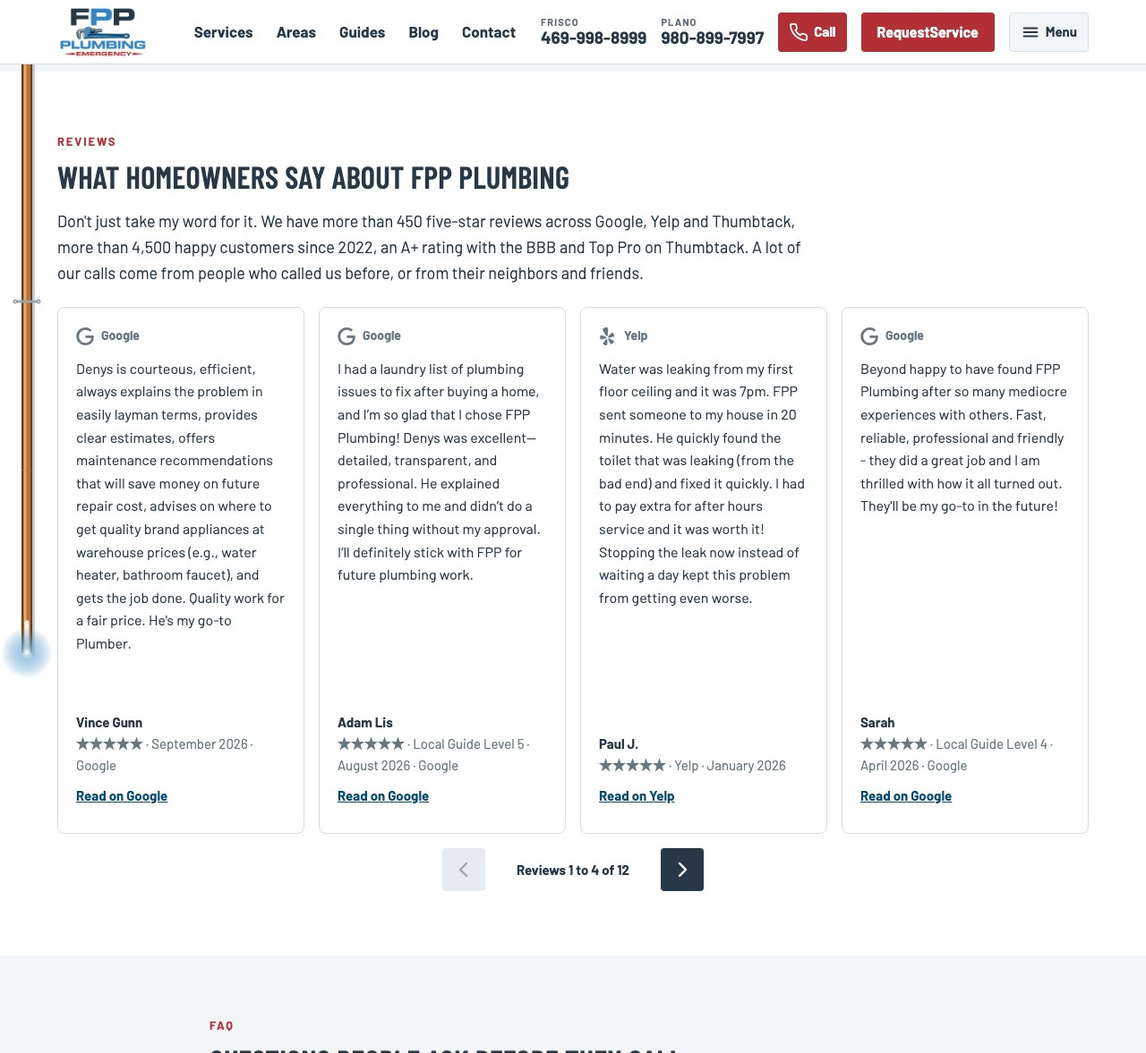
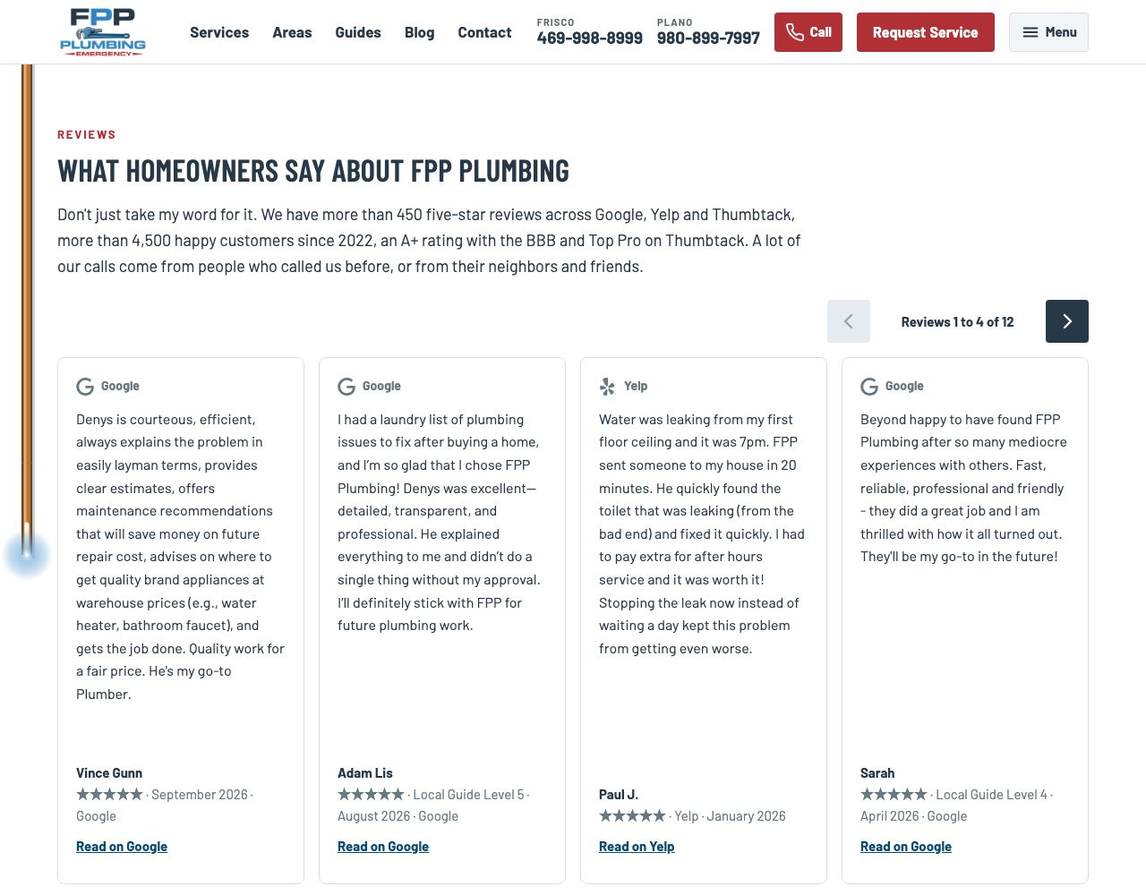
Journal 03.10.2026 10:41

diff --git a/check.html b/check.html
@@ -10,7 +10,7 @@ a{color:var(--accent)}code{font-size:15px;background:rgba(127,127,127,.15);paddi
 li{margin:4px 0}.stamp{color:var(--muted);font-size:14px;margin:0 0 16px}
 table{display:block;overflow-x:auto;border-collapse:collapse;font-size:14px;line-height:1.35;margin:12px 0}
 th,td{padding:5px 9px;border-bottom:1px solid var(--line);text-align:left;vertical-align:top}th{position:sticky;top:0;background:var(--bg)}
-</style></head><body><main><p class="stamp">Опубликовано 03.10.2026 10:08</p><h1>Отчёт по частям 1, 2 и 3 единого блока (3 октября 2026, 5:10)</h1>
+</style></head><body><main><p class="stamp">Опубликовано 03.10.2026 10:41</p><h1>Отчёт по частям 1, 2 и 3 единого блока (3 октября 2026, 5:10)</h1>
 <p>Сборка стоит на тестовом сайте. Проверки на этой сборке: проверки сайта 28 из 28, вёрстка чиста на шести ширинах, валидатор схемы 0 ошибок и 0 предупреждений на главной и Frisco.</p>
 <h2>Итог</h2>
 <table>
@@ -429,7 +429,16 @@ th,td{padding:5px 9px;border-bottom:1px solid var(--line);text-align:left;vertic
 <p>Как работает: на компьютере видно четыре карточки, на планшете две, на телефоне одну. Листается стрелками, пальцем и стрелками клавиатуры. Сама не крутится, библиотек нет, скрипт 1,3 КБ. Все 12 отзывов стоят в HTML. Высота блока одна и та же на любой странице карусели. Без скриптов ряд листается пальцем. В разметке 12 узлов Review без общего рейтинга, валидатор 0 ошибок.</p>
 <p>Снимки: <a href="img/carousel-390.jpg">телефон 390</a>, <a href="img/carousel-768.jpg">планшет 768</a>, <a href="img/carousel-1280.jpg">компьютер 1280</a>.</p>
 <p>Измерено при сборке: видимых карточек 1, 2 и 4; кнопка «Next» сдвигает ровно на один экран; на краях кнопки выключаются; Tab, Enter, пробел и стрелки работают; за 15 секунд без действий ничего не двигается; страница вбок не прокручивается.</p>
-<h2>Что проверено независимо и что нет</h2>
-<p>Проверяющих было пять. Двое закончили: Frisco версия 4 и содержание отзывов. Они нашли семь мелочей, все исправлены: пробел в кнопке «Request Service» в шапке на компьютере, дата изменения главной, устаревшие заметки в файлах текста, карта ключей и план, пометка Rani C как того же клиента. Трое (поведение карусели для клавиатуры и программы чтения, техника части 1, регрессии по сайту) остановились из-за лимита. Их стоит прогнать ещё раз.</p>
+<h2>Независимая проверка</h2>
+<p>Проверяющих было пять, прошли все пять (трое со второго и третьего запуска, после возврата лимита): Frisco версия 4, содержание отзывов, техника части 1, регрессии по сайту, поведение карусели для клавиатуры и программы чтения. Серьёзных ошибок в работе по блоку не нашли. Каждую находку перепроверял второй проверяющий.</p>
+<p>Исправлено по находкам:</p>
+<ul>
+<li>Карусель: стрелки и счётчик стоят над карточками и раньше них в разметке, поэтому Tab сразу попадает на кнопку «Next». На краю ряда кнопка отдаёт фокус ряду (раньше лишний Enter листал назад). Стрелки клавиатуры листают ряд и тогда, когда фокус стоит на ссылке внутри карточки. Ссылка меню «Reviews» приводит к блоку под шапкой, а не под неё.</li>
+<li>Шапка: от 1100 до 1199 px номера телефонов не помещались и вылезали из шапки. Теперь номера видны с 1200 px, до этого их несёт кнопка Call.</li>
+<li>Пробел в кнопке «Request Service», дата изменения главной, заметки в файлах текста, карта ключей и план, защита от постановки одного клиента под двумя именами.</li>
+<li>Старые ошибки сайта, не из этого блока: фото с координатами съёмки в одном посте (больше не публикуется), подвал шире экрана на планшете, правила для телефона в виде, которого не понимает Safari до 16.4, кнопки плеера у клипа со счётчиком.</li>
+</ul>
+<p>Измерено проверяющим карусели на семи ширинах от 360 до 1440 px: видимых карточек 1, 2 и 4, переключение ровно на 700 и 1100 px; кнопка сдвигает ровно на один экран; высота блока одна на всех страницах карусели; сама не двигается (20 секунд); без скриптов ряд листается и все 12 читаются; контраст текста и кнопок от 4,58 до 12; ошибок в консоли нет.</p>
+<p>Не исправлено, для сведения: при первом заходе сразу по адресу /#reviews на телефоне страница после подгрузки шрифтов съезжает, и блок оказывается выше экрана. Причина старая: шрифты Google подключаются после загрузки и меняют высоту текста выше. Лечится подбором запасного шрифта той же ширины, это отдельная работа.</p>
 <h2>Коммиты</h2>
-<p>60cd5db Frisco версия 4; 755fca7 техника; 80c6c5d карусель; 4c41f3c исправления после проверки; 3402b85 города фото по контурам; 7f421b9 запись страницы Plano.</p></main></body></html>
+<p>60cd5db Frisco версия 4; 755fca7 техника; 80c6c5d карусель; 4c41f3c исправления после проверки; 3402b85 города фото по контурам; 7f421b9 запись страницы Plano. Дальше: faf128d исправления после второй проверки; be12ea8 четыре ответа Дениса; 9ce261c карусель после проверки клавиатуры.</p></main></body></html>

diff --git a/morning-report-2026-10-03.html b/morning-report-2026-10-03.html
@@ -10,9 +10,9 @@ a{color:var(--accent)}code{font-size:15px;background:rgba(127,127,127,.15);paddi
 li{margin:4px 0}.stamp{color:var(--muted);font-size:14px;margin:0 0 16px}
 table{display:block;overflow-x:auto;border-collapse:collapse;font-size:14px;line-height:1.35;margin:12px 0}
 th,td{padding:5px 9px;border-bottom:1px solid var(--line);text-align:left;vertical-align:top}th{position:sticky;top:0;background:var(--bg)}
-</style></head><body><main><p class="stamp">Опубликовано 03.10.2026 10:27</p><h1>Утренний отчёт, 3 октября 2026</h1>
-<p>Опубликован в 04:53, дополнен в 10:30.</p>
-<p>Главное: в 02:36 кончился лимит использования, все ночные помощники остановились. Лимит вернулся в 04:50. Единый блок сделан весь и выложен на тестовый сайт. Из ночного блока готовы таблица городов, бриф Plano и бриф Little Elm. В 05:38 лимит кончился второй раз, уже на модели помощников. С 10:05, после твоего «Try again», брифы остальных городов идут по два города на другой модели помощников: The Colony и Prosper, Lewisville и Celina, потом Carrollton, Allen и McKinney. Страницы услуг не начаты.</p>
+</style></head><body><main><p class="stamp">Опубликовано 03.10.2026 10:41</p><h1>Утренний отчёт, 3 октября 2026</h1>
+<p>Опубликован в 04:53, дополнен в 10:45.</p>
+<p>Главное: в 02:36 кончился лимит использования, все ночные помощники остановились. Лимит вернулся в 04:50. Единый блок сделан весь и выложен на тестовый сайт. Из ночного блока готовы таблица городов, бриф Plano и бриф Little Elm. В 05:38 лимит кончился второй раз, уже на модели помощников. С 10:05, после твоего «Try again», брифы остальных семи городов идут на другой модели помощников: The Colony, Prosper, Lewisville, Celina, Carrollton, Allen и McKinney. Страницы услуг не начаты.</p>
 <h2>Единый блок (части 0 до 8)</h2>
 <ul>
 <li><strong>Часть 0.</strong> Пустой файл в .git удалён.</li>
@@ -33,7 +33,7 @@ th,td{padding:5px 9px;border-bottom:1px solid var(--line);text-align:left;vertic
 <li><strong>Часть 11, страницы услуг: не начата.</strong></li>
 </ul>
 <h2>Проверка правок</h2>
-<p>Независимая проверка прошла со второго запуска: четыре проверяющих из пяти (Frisco, содержание отзывов, техника, регрессии). Пятый, поведение карусели для клавиатуры и программы чтения, оба раза упал на лимите и ещё не пройден. Серьёзных ошибок в работе этой ночи не нашли. Нашли старые ошибки сайта, которые я исправил утром:</p>
+<p>Независимая проверка пройдена всеми пятью проверяющими (Frisco, содержание отзывов, техника, регрессии, поведение карусели для клавиатуры и программы чтения). Серьёзных ошибок в работе этой ночи не нашли. По проверке карусели исправлены четыре мелочи: стрелки и счётчик теперь стоят над карточками, подробно в отчёте по частям 1, 2 и 3. Нашли старые ошибки сайта, которые я исправил утром:</p>
 <ol>
 <li><strong>Фото с координатами.</strong> В одном посте (течь душевого клапана во Frisco) стоял старый файл HEIC, в котором лежали координаты съёмки; он к тому же не открывался в Chrome. Файл больше не публикуется: вместо него чистый JPEG и WebP без метаданных, старый адрес переадресован. Проверил все 883 картинки нового сайта: координат больше нет ни в одной. На живом сайте этот файл с координатами лежит до сих пор.</li>
 <li><strong>Подвал на планшете.</strong> На ширине от 821 до 883 px подвал был шире экрана. Теперь на планшете две колонки, страница вбок не ездит.</li>
@@ -113,9 +113,8 @@ th,td{padding:5px 9px;border-bottom:1px solid var(--line);text-align:left;vertic
 <h2>Пропущенные шаги и почему</h2>
 <ul>
 <li>Брифы семи городов: ночью дважды кончался лимит (02:36 и 05:38). Идут с 10:05 по два города.</li>
-<li>Страницы услуг (часть 11): не начаты, пойдут после городов.</li>
 <li>
-<p>Проверка поведения карусели для клавиатуры и программы чтения: дважды упала на лимите. Сборочные проверки карусели пройдены.</p>
+<p>Страницы услуг (часть 11): не начаты, пойдут после городов.</p>
 </li>
 <li>
 <p>Критических ошибок в ночном блоке не нашёл, ни один пункт из-за этого не пропущен.</p>
@@ -139,4 +138,5 @@ th,td{padding:5px 9px;border-bottom:1px solid var(--line);text-align:left;vertic
 <li>e4c9689 бриф Little Elm</li>
 <li>faf128d исправления после второй проверки</li>
 <li>be12ea8 четыре ответа Дениса</li>
+<li>9ce261c карусель после проверки клавиатуры</li>
 </ul></main></body></html>

diff --git a/seo-build-technical-2026-10-01.html b/seo-build-technical-2026-10-01.html
@@ -10,7 +10,7 @@ a{color:var(--accent)}code{font-size:15px;background:rgba(127,127,127,.15);paddi
 li{margin:4px 0}.stamp{color:var(--muted);font-size:14px;margin:0 0 16px}
 table{display:block;overflow-x:auto;border-collapse:collapse;font-size:14px;line-height:1.35;margin:12px 0}
 th,td{padding:5px 9px;border-bottom:1px solid var(--line);text-align:left;vertical-align:top}th{position:sticky;top:0;background:var(--bg)}
-</style></head><body><main><p class="stamp">Опубликовано 03.10.2026 10:27</p><h1>Технический аудит и аудит схемы новой сборки, 1 октября 2026, 14:15</h1>
+</style></head><body><main><p class="stamp">Опубликовано 03.10.2026 10:41</p><h1>Технический аудит и аудит схемы новой сборки, 1 октября 2026, 14:15</h1>
 <p>Что проверяли: новую сборку сайта (папка site/dist, сборка от 1 октября 13:11), запущенную у меня на компьютере через эмулятор Cloudflare Pages (wrangler pages dev). Эмулятор ведет себя как настоящий Cloudflare: те же перенаправления, те же заголовки, та же страница 404. Тестовый сайт в интернете закрыт входом по почте (Cloudflare Access), туда я не заходил.</p>
 <p>Проверено: все 64 адреса из списка старого сайта, robots.txt, sitemap.xml, llms.txt, llms-full.txt, все 300 правил перенаправления, страница 404, адреса без косой черты в конце, canonical, заголовки страниц, внутренние ссылки, все 370 картинок, вес страниц, скорость на телефоне по нашему инструменту (tools/perf_budget.py, бюджет 1,6 секунды) и вся схема на каждой странице против словаря schema.org.</p>
 <p>Методика: плагин claude-seo (навыки seo-technical, seo-schema, seo-sitemap, seo-images, seo-geo, seo-page) и его скрипты parse_html, sitemap_discovery, preload_check, metadata_template, agentic_check. Советы плагина здесь только предложения. Где плагин советует то, что запрещает CLAUDE.md или файл голоса Дениса, это вынесено в раздел 4 и в список правок не попало. Модуль programmatic SEO не использовался.</p>

diff --git a/audit-2026-10-02-superseo-round3.html b/audit-2026-10-02-superseo-round3.html
@@ -10,7 +10,7 @@ a{color:var(--accent)}code{font-size:15px;background:rgba(127,127,127,.15);paddi
 li{margin:4px 0}.stamp{color:var(--muted);font-size:14px;margin:0 0 16px}
 table{display:block;overflow-x:auto;border-collapse:collapse;font-size:14px;line-height:1.35;margin:12px 0}
 th,td{padding:5px 9px;border-bottom:1px solid var(--line);text-align:left;vertical-align:top}th{position:sticky;top:0;background:var(--bg)}
-</style></head><body><main><p class="stamp">Опубликовано 03.10.2026 10:27</p><h1>Аудит двух страниц, круг 3 (сборка 2 октября 2026, 23:21)</h1>
+</style></head><body><main><p class="stamp">Опубликовано 03.10.2026 10:41</p><h1>Аудит двух страниц, круг 3 (сборка 2 октября 2026, 23:21)</h1>
 <p>Метод: superseo page-audit, те же семь измерений, что в кругах 1 и 2, по 10 баллов, всего 70. Проверял готовый HTML сборки: копии home.html и plumber-frisco-tx.html совпадают байт в байт с site/dist. Все счёты ниже сделаны скриптами (python, BeautifulSoup), не на глаз.</p>
 <p>Конкуренты по запросу "plumber frisco tx": прочитаны сохранённые копии от 1 октября (source/competitors/2026-10-01): Berkeys, Baker Brothers, Trident, Roto-Rooter, Lex's Plumbing и ещё пять. Свежий веб-поиск сделан, но выдачу Google с привязкой к Фриско так не получить, поэтому места в выдаче беру из Search Console (source/gsc). Сам Lighthouse не запускал (в моей среде нет Node), но прочитал свежие замеры этой же сборки, которые сделал другой помощник в 23:31 (exports/lighthouse/round3-summary.json, лабораторные данные, локальный сервер): главная на телефоне 99 баллов, LCP 1.8 с, CLS 0.032; Frisco на телефоне 99 баллов, LCP 2.1 с, CLS 0.008; на компьютере обе 100; доступность 100 у обеих. Самый большой элемент на Frisco: фото фургона в герое. Ещё посчитан вес страниц и картинок, а первый экран снят на телефоне 375 px через локальный сервер из site/dist. Pangram не запускал.</p>
 <h2>1. Оценки</h2>

diff --git a/seo-baseline-live-2026-10-01.html b/seo-baseline-live-2026-10-01.html
@@ -10,7 +10,7 @@ a{color:var(--accent)}code{font-size:15px;background:rgba(127,127,127,.15);paddi
 li{margin:4px 0}.stamp{color:var(--muted);font-size:14px;margin:0 0 16px}
 table{display:block;overflow-x:auto;border-collapse:collapse;font-size:14px;line-height:1.35;margin:12px 0}
 th,td{padding:5px 9px;border-bottom:1px solid var(--line);text-align:left;vertical-align:top}th{position:sticky;top:0;background:var(--bg)}
-</style></head><body><main><p class="stamp">Опубликовано 03.10.2026 10:27</p><h1>Аудит старого сайта fppplumbing.com: точка отсчёта до переезда (1 октября 2026, 14:10)</h1>
+</style></head><body><main><p class="stamp">Опубликовано 03.10.2026 10:41</p><h1>Аудит старого сайта fppplumbing.com: точка отсчёта до переезда (1 октября 2026, 14:10)</h1>
 <p>Что это: полный SEO аудит сайта, который сейчас работает на WordPress. Это снимок «до». После переезда на новый сайт мы сделаем такой же снимок «после» и сравним по тем же пунктам.</p>
 <p>Как проверяли: по методике плагина Claude SEO 2.4.1 (оригинальный репозиторий AgriciDaniel/claude-seo). Шли по шагам главного навыка seo-audit и по его частям: технический аудит (seo-technical), тексты и доверие (seo-content), разметка (seo-schema), картинки (seo-images), карта сайта (seo-sitemap), готовность к AI поиску (seo-geo), разбор отдельных страниц (seo-page). Модуль programmatic SEO не использовался. Советы плагина здесь только предложения: где плагин советует то, что запрещает CLAUDE.md или файл голоса Дениса, это вынесено в раздел 4 и в список правок не попало.</p>
 <p>Откуда данные:

diff --git a/home-live-vs-v4-2026-10-01.html b/home-live-vs-v4-2026-10-01.html
@@ -10,7 +10,7 @@ a{color:var(--accent)}code{font-size:15px;background:rgba(127,127,127,.15);paddi
 li{margin:4px 0}.stamp{color:var(--muted);font-size:14px;margin:0 0 16px}
 table{display:block;overflow-x:auto;border-collapse:collapse;font-size:14px;line-height:1.35;margin:12px 0}
 th,td{padding:5px 9px;border-bottom:1px solid var(--line);text-align:left;vertical-align:top}th{position:sticky;top:0;background:var(--bg)}
-</style></head><body><main><p class="stamp">Опубликовано 03.10.2026 10:27</p><h1>Живая главная против новой (v4): что выиграли для SEO</h1>
+</style></head><body><main><p class="stamp">Опубликовано 03.10.2026 10:41</p><h1>Живая главная против новой (v4): что выиграли для SEO</h1>
 <p>1 октября 2026. Сравнение сегодняшней главной на fppplumbing.com с новой главной v4 на тестовом сайте. Живую страницу я заново скачал и открыл в браузере в размере телефона. Цифры по запросам из Search Console (сервис Google, который показывает, по каким запросам сайт видят в поиске и на каком месте).</p>
 <h2>Короткий ответ</h2>
 <p>Выиграли, но не там, где хочется. Сам текст не поднимет главную по «plumber near me» с 27 места: это решают карточки в Google Картах, отзывы и ссылки с других сайтов. Новая главная выигрывает в трех вещах: она в разы легче и быстрее, на ней нет ошибок и неправды со старой страницы, и в тексте стоят слова, по которым Google уже показывает главную. По аварийным запросам мы ничего не выиграли, а защитили то, что есть.</p>

diff --git a/plano-brief-2026-10-03.html b/plano-brief-2026-10-03.html
@@ -10,7 +10,7 @@ a{color:var(--accent)}code{font-size:15px;background:rgba(127,127,127,.15);paddi
 li{margin:4px 0}.stamp{color:var(--muted);font-size:14px;margin:0 0 16px}
 table{display:block;overflow-x:auto;border-collapse:collapse;font-size:14px;line-height:1.35;margin:12px 0}
 th,td{padding:5px 9px;border-bottom:1px solid var(--line);text-align:left;vertical-align:top}th{position:sticky;top:0;background:var(--bg)}
-</style></head><body><main><p class="stamp">Опубликовано 03.10.2026 10:27</p><h1>Бриф страницы Plano (3 октября 2026)</h1>
+</style></head><body><main><p class="stamp">Опубликовано 03.10.2026 10:41</p><h1>Бриф страницы Plano (3 октября 2026)</h1>
 <p>Страница: /plumber-plano-tx/ . Собрано ночью 3 октября 2026 из файлов разделов в папке <code>docs/briefs/plano/</code>. Страница этой ночью не переписывалась: текст напишет другой чат из этого брифа и из диктовки Дениса. В проекте ничего не менялось, кроме этого нового файла.</p>
 <p>Как устроен файл. Части 1, 2, 3, 5, 6 и 8 это файлы разделов, вставленные целиком скриптом, слово в слово (заголовки внутри опущены на уровень ниже, в части 6 на два уровня, потому что там четыре файла). Части «Коротко», 4, 7, 9 и 10 написаны при сборке. Файл большой, потому что часть 2 одна занимает около 130 КБ: читать стоит «Коротко», потом части 9 и 10, остальное открывать по делу.</p>
 <p>Три оговорки к вставленным файлам:</p>

diff --git a/seo-audit-2026-10-01.html b/seo-audit-2026-10-01.html
@@ -10,7 +10,7 @@ a{color:var(--accent)}code{font-size:15px;background:rgba(127,127,127,.15);paddi
 li{margin:4px 0}.stamp{color:var(--muted);font-size:14px;margin:0 0 16px}
 table{display:block;overflow-x:auto;border-collapse:collapse;font-size:14px;line-height:1.35;margin:12px 0}
 th,td{padding:5px 9px;border-bottom:1px solid var(--line);text-align:left;vertical-align:top}th{position:sticky;top:0;background:var(--bg)}
-</style></head><body><main><p class="stamp">Опубликовано 03.10.2026 10:27</p><h1>SEO аудит: главная и страница slab leak, 1 октября 2026</h1>
+</style></head><body><main><p class="stamp">Опубликовано 03.10.2026 10:41</p><h1>SEO аудит: главная и страница slab leak, 1 октября 2026</h1>
 <p>Что проверяли: собранную копию нового сайта (папка site/dist), главную <code>/</code> и страницу <code>/slab-leak-repair-frisco-plano-mckinney/</code>. Смотрели текст, заголовки, схему (schema: скрытая разметка для Google и AI, которая говорит «это компания, это услуга, это вопросы и ответы»), ссылки, фото, скорость. Сравнивали с конкурентами из первой выдачи Google и с данными Search Console за 3 месяца (июль, август, сентябрь 2026).</p>
 <p>Методика: два навыка superseo (eeat-audit и page-audit). Их советы здесь только предложения. Где навык советует то, что запрещает CLAUDE.md или файл голоса Дениса, это вынесено в раздел 5 и не считается находкой.</p>
 <p>Короткий словарь (дальше без пояснений):

diff --git a/audit-2026-10-02-claudeseo-round3.html b/audit-2026-10-02-claudeseo-round3.html
@@ -10,7 +10,7 @@ a{color:var(--accent)}code{font-size:15px;background:rgba(127,127,127,.15);paddi
 li{margin:4px 0}.stamp{color:var(--muted);font-size:14px;margin:0 0 16px}
 table{display:block;overflow-x:auto;border-collapse:collapse;font-size:14px;line-height:1.35;margin:12px 0}
 th,td{padding:5px 9px;border-bottom:1px solid var(--line);text-align:left;vertical-align:top}th{position:sticky;top:0;background:var(--bg)}
-</style></head><body><main><p class="stamp">Опубликовано 03.10.2026 10:27</p><h1>Проверка claude-seo seo-page, третий круг: главная и Frisco</h1>
+</style></head><body><main><p class="stamp">Опубликовано 03.10.2026 10:41</p><h1>Проверка claude-seo seo-page, третий круг: главная и Frisco</h1>
 <p>Сборка 2 октября 2026, 23:21. Проверены site/dist/index.html (главная) и site/dist/plumber-frisco-tx/index.html (Frisco); копии в папке аудита совпадают с ними байт в байт. Метод: навык claude-seo:seo-page, пять областей по 100 баллов. Весов навык не задаёт, поэтому итог это простое среднее пяти областей, как в первом и втором круге. Всё посчитано своими скриптами по HTML и файлам сборки, без браузера и без Lighthouse. noindex, Cloudflare Access и отсутствие тегов Google ошибками не считаются: это шаги дня переезда.</p>
 <h2>1. Баллы</h2>
 <table>

diff --git a/deploy-preview.html b/deploy-preview.html
@@ -10,7 +10,7 @@ a{color:var(--accent)}code{font-size:15px;background:rgba(127,127,127,.15);paddi
 li{margin:4px 0}.stamp{color:var(--muted);font-size:14px;margin:0 0 16px}
 table{display:block;overflow-x:auto;border-collapse:collapse;font-size:14px;line-height:1.35;margin:12px 0}
 th,td{padding:5px 9px;border-bottom:1px solid var(--line);text-align:left;vertical-align:top}th{position:sticky;top:0;background:var(--bg)}
-</style></head><body><main><p class="stamp">Опубликовано 03.10.2026 10:27</p><h1>Предпросмотр нового сайта на Cloudflare: как выложить и как закрыть паролем</h1>
+</style></head><body><main><p class="stamp">Опубликовано 03.10.2026 10:41</p><h1>Предпросмотр нового сайта на Cloudflare: как выложить и как закрыть паролем</h1>
 <p>Предпросмотр живёт по адресу https://fppplumbing-preview.pages.dev. Домен fppplumbing.com и DNS не трогаем. На каждой странице стоит запрет для поисковиков (noindex), а вход будет только по вашей почте.</p>
 <h2>Шаг 1. Вход в Cloudflare (уже сделан)</h2>
 <p>Вы уже вошли командой <code>npx --yes wrangler@latest login</code> (папка проекта, локальный Node). Повторять не нужно. Если когда-нибудь вход слетит: откройте Терминал, вставьте две строки и подтвердите вход в браузере.</p>

diff --git a/seo-local-2026-10-01.html b/seo-local-2026-10-01.html
@@ -10,7 +10,7 @@ a{color:var(--accent)}code{font-size:15px;background:rgba(127,127,127,.15);paddi
 li{margin:4px 0}.stamp{color:var(--muted);font-size:14px;margin:0 0 16px}
 table{display:block;overflow-x:auto;border-collapse:collapse;font-size:14px;line-height:1.35;margin:12px 0}
 th,td{padding:5px 9px;border-bottom:1px solid var(--line);text-align:left;vertical-align:top}th{position:sticky;top:0;background:var(--bg)}
-</style></head><body><main><p class="stamp">Опубликовано 03.10.2026 10:27</p><h1>Локальный SEO аудит: Google карточки, справочники, видимость на карте</h1>
+</style></head><body><main><p class="stamp">Опубликовано 03.10.2026 10:41</p><h1>Локальный SEO аудит: Google карточки, справочники, видимость на карте</h1>
 <p>Дата и время: 1 октября 2026, 14:15 (Central Time). Автор: Claude, по методике плагина claude-seo 2.4.1 (модули seo-local и seo-maps). Модуль programmatic SEO не использовался.</p>
 <p>Важно: все выводы плагина здесь только предложения. Где плагин советует то, что запрещает CLAUDE.md или voice/denys-voice.md, это вынесено в раздел 4 и в список правок не попало. Тексты сайта, карточки Google и справочники я не менял, только смотрел.</p>
 <p>Термины, один раз:

diff --git a/home-v3-check-2026-10-01.html b/home-v3-check-2026-10-01.html
@@ -10,7 +10,7 @@ a{color:var(--accent)}code{font-size:15px;background:rgba(127,127,127,.15);paddi
 li{margin:4px 0}.stamp{color:var(--muted);font-size:14px;margin:0 0 16px}
 table{display:block;overflow-x:auto;border-collapse:collapse;font-size:14px;line-height:1.35;margin:12px 0}
 th,td{padding:5px 9px;border-bottom:1px solid var(--line);text-align:left;vertical-align:top}th{position:sticky;top:0;background:var(--bg)}
-</style></head><body><main><p class="stamp">Опубликовано 03.10.2026 10:27</p><h1>Главная v3: финальная проверка (1 октября 2026)</h1>
+</style></head><body><main><p class="stamp">Опубликовано 03.10.2026 10:41</p><h1>Главная v3: финальная проверка (1 октября 2026)</h1>
 <h2>1. Правила проекта: пройдено</h2>
 <p>Скрипт tools/check_text.py (цены, города, «Dallas», обещания времени приезда, телефоны в тексте, тире, слова из запретного списка голосового файла, tankless, reroute, owner, PHCC). До правок нашлось: «can come out right away» в ответе про восстановление (звучит как обещание времени). Исправлено. Сейчас нарушений нет. «Plumber near me» в тексте 6 раз, считая title и описание для Google (в самом тексте 4 раза).</p>
 <h2>2. Совпадения: с конкурентами ноль</h2>
